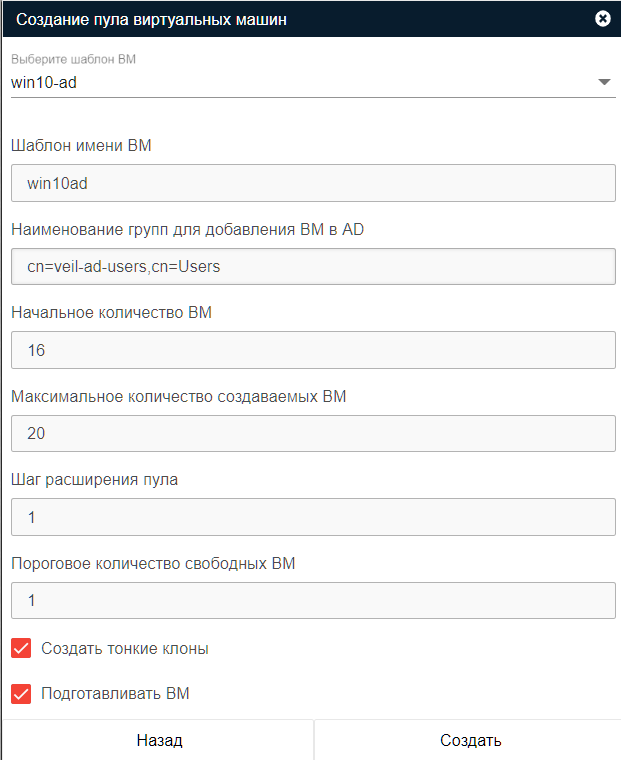
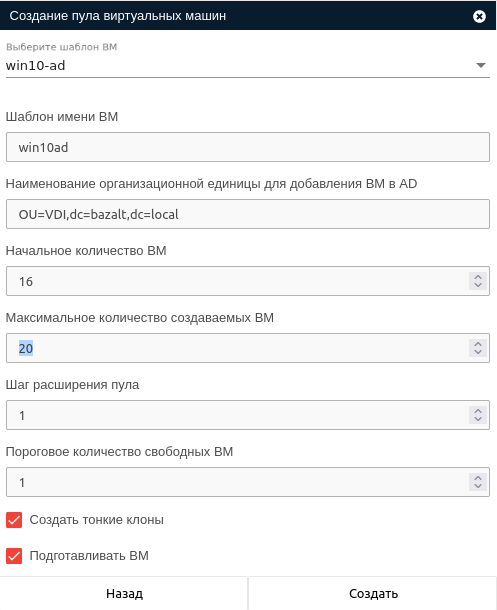
FEATURE TG-12317 отзыв токена присмене пароля и деактивации + правка доки для OU

diff --git a/frontend/src/app/pages/pools/add-pool/add-pool.component.html b/frontend/src/app/pages/pools/add-pool/add-pool.component.html
@@ -192,7 +192,7 @@
       </label>
 
       <label class="field" *ngIf="auth_dirs.length">
-        <p class="field-name">Наименование групп для добавления ВМ в AD</p>
+        <p class="field-name">Наименование организационной единицы для добавления ВМ в AD</p>
         <input type="text" formControlName="ad_ou">
 
         <ng-container *ngIf="dynamicPool.hasError('required', 'ad_ou') && checkValid">
@@ -323,7 +323,7 @@
       </label>
 
       <label class="field" *ngIf="auth_dirs.length">
-        <p class="field-name">Наименование групп для добавления ВМ в AD</p>
+        <p class="field-name">Наименование организационной единицы для добавления ВМ в AD</p>
         <input type="text" formControlName="ad_ou">
 
         <ng-container *ngIf="guestPool.hasError('required', 'ad_ou') && checkValid">

diff --git a/frontend/src/app/pages/pools/pool-details/pool-details.component.ts b/frontend/src/app/pages/pools/pool-details/pool-details.component.ts
@@ -183,7 +183,7 @@ export class PoolDetailsComponent implements OnInit, OnDestroy {
       edit: 'changeTemplateForVmAutomatedPool'
     },
     {
-      title: 'Наименование групп для добавления ВМ в AD',
+      title: 'Наименование организационной единицы для добавления ВМ в AD',
       property: 'ad_ou',
       type: 'string',
       edit: 'changeAdCnPatternForGroupAutomatedPool'
@@ -298,7 +298,7 @@ export class PoolDetailsComponent implements OnInit, OnDestroy {
       edit: 'changeTemplateForVmAutomatedPool'
     },
     {
-      title: 'Наименование групп для добавления ВМ в AD',
+      title: 'Наименование организационной единицы для добавления ВМ в AD',
       property: 'ad_ou',
       type: 'string',
       edit: 'changeAdCnPatternForGroupAutomatedPool'

diff --git a/backend/common/models/auth.py b/backend/common/models/auth.py
@@ -467,6 +467,9 @@ class User(AbstractSortableStatusModel, VeilModel):
         )
         await system_logger.info(info_message, entity=self.entity, user=creator)
 
+        # Удаляем ранее выданный токен
+        await UserJwtInfo.delete.where(UserJwtInfo.user_id == self.id).gino.status()
+
         # Разорвать соединение ТК, если присутствуют
         cmd_dict = dict(command=ThinClientCmd.DISCONNECT.name, user_id=str(self.id))
         await publish_to_redis(REDIS_THIN_CLIENT_CMD_CHANNEL, json.dumps(cmd_dict))
@@ -580,6 +583,9 @@ class User(AbstractSortableStatusModel, VeilModel):
                 username=self.username
             )
             await system_logger.info(info_message, entity=self.entity, user=creator)
+
+        # Удаляем ранее выданный токен
+        await UserJwtInfo.delete.where(UserJwtInfo.user_id == self.id).gino.status()
 
         return user_status
 

diff --git a/backend/web_app/pool/schema.py b/backend/web_app/pool/schema.py
@@ -1075,7 +1075,7 @@ class CreateAutomatedPoolMutation(graphene.Mutation, PoolValidator, ControllerFe
             default_value=[Pool.PoolConnectionTypes.SPICE.value],
         )
         ad_ou = graphene.String(
-            description="Наименование групп для добавления ВМ в AD"
+            description="Наименование организационной единицы для добавления ВМ в AD"
         )
         is_guest = graphene.Boolean(default_value=False)
 

diff --git a/docs/ru/broker/pools/automated_pool_v3.md b/docs/ru/broker/pools/automated_pool_v3.md
@@ -1,7 +1,7 @@
-# Автоматический пул (VeiL Broker 3+)
+# Автоматический пул (VeiL Broker 3.*)
 
 Работа с автоматическими пулами ВРС, использующих в качестве шаблона настроенные образы MS Windows, позволяет
-автоматизировать процесс ввода ВМ в домен и доменные группы MS AD.
+автоматизировать процесс ввода ВМ в домен и доменные организационные единицы MS AD.
 
 ## Процесс подготовки ВМ 
 Процесс подготовки ВМ включает в себя следующие шаги:
@@ -9,7 +9,7 @@
 1. Проверка и включение настройки удаленного доступа на ECP VeiL.
 1. Задание имени хоста (hostname) по имени ВМ.
 1. Заведение ВМ в домен (исключительно для OS Windows) MS AD с использованием powershell из ВМ.
-1. Заведение ВМ в группу (контейнер) MS AD с использованием LDAP напрямую на контроллере домена.
+1. Заведение ВМ в организационную единицу (OU) MS AD с использованием LDAP напрямую на контроллере домена.
 
 ## Создание автоматического пула с указанием необходимости подготовки ВМ
 
@@ -66,12 +66,18 @@
 Имя шаблона не должно превышать 63 символа и может состоять из букв латинского алфавита, цифр и "-". 
 Ограничения вызваны тем, что имя ВМ будет назначено в качестве **hostname** при ее подготовки.
 
-1. **Наименование групп для добавления ВМ в AD**  
-Указание на наименование контейнера для MS AD, в который необходимо включить созданные ВМ при подготовке. В настоящий 
-момент есть возможность включения только в **CN**, заведение в **OU** заблокировано.
+1. **Наименование организационной единицы для добавления ВМ в AD**  
+Указание **Организационная единица домена (OU)** для MS AD, в которую необходимо включить созданные ВМ при подготовке.
+   
+    !!! note "Пример добавления ВМ в AD"
+        1. Чтобы добавить ВМ в OU=VDI домена bazalt.local необходимо указать 
+          **OU=VDI,dc=bazalt,dc=local**
+        2. Чтобы добавить ВМ в OU=VDI внутри ou=vdiou домена bazalt.local необходимо указать 
+          **OU=VDI,ou=vdiou,dc=bazalt,dc=local**
 
-    !!! note "Наименование групп для добавления ВМ в AD"
-        Если необходимость включения ВМ в группы отсутствует, оставьте поле пустым, тогда этот шаг будет пропущен.
+    !!! note "Наименование организационной единицы для добавления ВМ в AD"
+        Если необходимость включения ВМ в OU отсутствует, оставьте поле пустым, тогда этот шаг будет пропущен.
+        ВМ присоединится к организационной единице «Компьютеры», которая используется по умолчанию.
 
 1. **Начальное количество ВМ**  
 Количество ВМ, которое будет создано вместе с пулом.
@@ -92,17 +98,17 @@
 [Типы пулов данных](https://veil.mashtab.org/docs/base/operator_guide/storage/info).
 
 1. **Подготавливать ВМ**  
-Необходимость запуска процедуры подготовки ВМ после их создания. Включение в домен MS AD и группы CN для ВМ
-выполняется только, если ранее была добавлена [служба каталогов](../active_directory/ad_extend.md).
+Необходимость запуска процедуры подготовки ВМ после их создания. Включение в домен MS AD и организационную единицу (OU) 
+для ВМ выполняется только, если ранее была добавлена [служба каталогов](../active_directory/ad_extend.md).
 
 !!! warning "Подготавливать ВМ"
     Если на пуле отсутствовал данный параметр в момент создания, то действовать он начнет только после его активации
     и для ВМ, созданных **ПОСЛЕ**.
 
 !!! note "Подготовка ВМ"
-    Если в процессе создания пула подготовились не все ВМ или необходимо выполнить подготовку по изменившимся параметрам,
-    то следует нажать кнопку **Подготовить ВМ** в разделе **Информация**. Данная кнопка продолжит подготовку ВМ с последнего 
-    успешного действия. 
+    Если в процессе создания пула подготовились не все ВМ или необходимо выполнить подготовку по изменившимся 
+    параметрам, то следует нажать кнопку **Подготовить ВМ** в разделе **Информация**. Данная кнопка продолжит 
+    подготовку ВМ с последнего успешного действия. 
 
 !!! warning "Удаление ВМ"
     Если пул или ВМ были удалены, то не забудьте вывести ВМ из MS AD.    

diff --git a/docs/ru/broker/pools/guest_pool.md b/docs/ru/broker/pools/guest_pool.md
@@ -24,7 +24,7 @@
 
 !!! info "Подготовка ВМ"
         Также при создании гостевого пула все ВМ **ВСЕГДА** будут подготавливаться после их создания. 
-        Включение в домен MS AD и группы CN для ВМ выполняется только, если ранее была добавлена 
+        Включение в домен MS AD и организационную единицу (OU) для ВМ выполняется только, если ранее была добавлена 
         [служба каталогов](../active_directory/ad_extend.md).
 
 #### Процесс подготовки ВМ
@@ -32,7 +32,7 @@
 1. Проверка и включение настройки удаленного доступа на ECP VeiL.
 1. Задание имени хоста (hostname) по имени ВМ.
 1. Заведение ВМ в домен (исключительно для OS Windows) MS AD с использованием powershell из ВМ.
-1. Заведение ВМ в группу (контейнер) MS AD с использованием LDAP напрямую на контроллере домена.
+1. Заведение ВМ в организационную единицу (OU) MS AD с использованием LDAP напрямую на контроллере домена.
 
 !!! warning "Подготовка ВМ"
     Если в процессе создания пула подготовились не все ВМ или необходимо выполнить подготовку по изменившимся параметрам,
@@ -82,12 +82,18 @@
 Имя шаблона не должно превышать 63 символа и может состоять из букв латинского алфавита, цифр и "-". 
 Ограничения вызваны тем, что имя ВМ будет назначено в качестве **hostname** при ее подготовке.
 
-1. **Наименование групп для добавления ВМ в AD**  
-Указание на наименование контейнера для MS AD, в который необходимо включить созданные ВМ при подготовке. В настоящий 
-момент есть возможность включения только в **CN**, заведение в **OU** заблокировано.
+1. **Наименование организационной единицы для добавления ВМ в AD**  
+Указание **Организационная единица домена (OU)** для MS AD, в которую необходимо включить созданные ВМ при подготовке.
+   
+    !!! note "Пример добавления ВМ в AD"
+        1. Чтобы добавить ВМ в OU=VDI домена bazalt.local необходимо указать 
+          **OU=VDI,dc=bazalt,dc=local**
+        2. Чтобы добавить ВМ в OU=VDI внутри ou=vdiou домена bazalt.local необходимо указать 
+          **OU=VDI,ou=vdiou,dc=bazalt,dc=local**
 
-    !!! note "Наименование групп для добавления ВМ в AD"
-        Если необходимость включения ВМ в группы отсутствует, оставьте поле пустым, тогда этот шаг будет пропущен.
+    !!! note "Наименование организационной единицы для добавления ВМ в AD"
+        Если необходимость включения ВМ в OU отсутствует, оставьте поле пустым, тогда этот шаг будет пропущен.
+        ВМ присоединится к организационной единице «Компьютеры», которая используется по умолчанию.
 
 1. **Начальное количество ВМ**  
 Количество ВМ, которое будет создано вместе с пулом.

diff --git a/docs/ru/broker/operator_guide/pools.md b/docs/ru/broker/operator_guide/pools.md
@@ -34,7 +34,7 @@
 - пул ресурсов (выбор из раскрывающегося списка);
 - шаблон имени ВМ. Имя шаблона не должно превышать 63 символа и может состоять 
 из букв латинского алфавита, цифр и знаков;
-- наименование групп для добавления ВМ в AD. Наименование контейнера для MS Windows Active 
+- наименование организационной единицы для добавления ВМ в AD. Наименование контейнера для MS Windows Active 
 Directory (MS AD), в который необходимо включить созданные ВМ при подготовке;
 - начальное количество ВМ (количество ВМ, которые будут созданы вместе с пулом);
 - максимальное количество создаваемых ВМ (максимальная количество ВМ пула);
@@ -110,7 +110,7 @@ rdp-клиента. Этот тип подключения подходит то
     - количество доступных ВМ;
     - шаблон ВМ;
     - шаблон для имени ВМ (редактируемый параметр);
-    - наименование групп для добавления ВМ в AD (редактируемый параметр);
+    - наименование организационной единицы для добавления ВМ в AD (редактируемый параметр);
     - количество пользователей;
     - статус.
 
